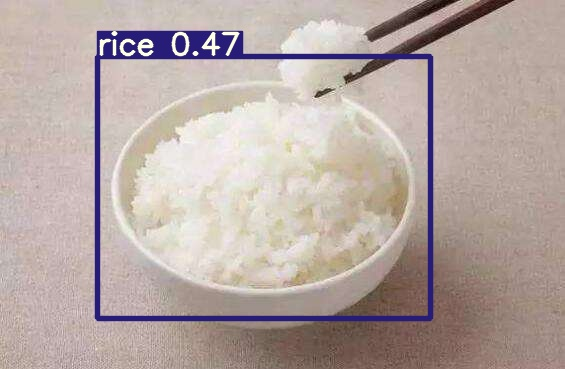
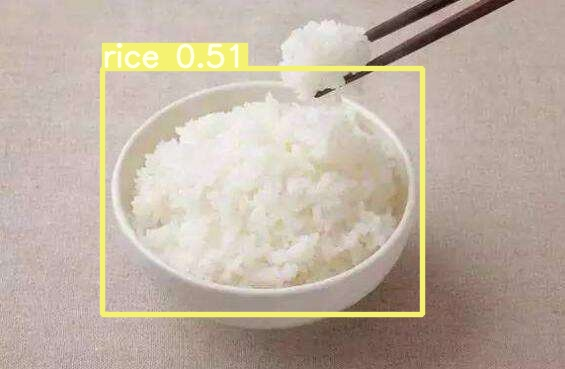
test api call detect()

Changed region(s): [[0.1504, 0.0596, 0.7823, 0.8943]]

diff --git a/pyApp/cv/detect.py b/pyApp/cv/detect.py
@@ -10,21 +10,23 @@ import torch.backends.cudnn as cudnn
 from numpy import random
 
 from models.experimental import attempt_load
-from utils.datasets import LoadStreams, LoadImages
-from utils.general import (
+from cv.utils.datasets import LoadStreams, LoadImages
+from cv.utils.general import (
     check_img_size, non_max_suppression, apply_classifier, scale_coords,
     xyxy2xywh, plot_one_box, strip_optimizer, set_logging)
-from utils.torch_utils import select_device, load_classifier, time_synchronized
+from cv.utils.torch_utils import select_device, load_classifier, time_synchronized
 
 
 def detect(save_img=False):
-    out, source, weights, view_img, save_txt, imgsz = \
-        opt.output, opt.source, opt.weights, opt.view_img, opt.save_txt, opt.img_size
+    out, source, weights, view_img, save_txt, imgsz, device, augment, save_conf, conf_thres, iou_thres, classes, agnostic_nms = \
+        'cv/inference/output', 'cv/inference/images', 'cv/weights/yolov5s.pt', None, \
+        None, 640, 'cpu', 'store_true', 'store_true', 0.25, 0.45, None, 'store_true'
+    # opt.output, opt.source, opt.weights, opt.view_img, opt.save_txt, opt.img_size
     webcam = source.isnumeric() or source.startswith(('rtsp://', 'rtmp://', 'http://')) or source.endswith('.txt')
 
     # Initialize
     set_logging()
-    device = select_device(opt.device)
+    device = select_device(device)
     if os.path.exists(out):
         shutil.rmtree(out)  # delete output folder
     os.makedirs(out)  # make new output folder
@@ -70,10 +72,10 @@ def detect(save_img=False):
 
         # Inference
         t1 = time_synchronized()
-        pred = model(img, augment=opt.augment)[0]
+        pred = model(img, augment=augment)[0]
 
         # Apply NMS
-        pred = non_max_suppression(pred, opt.conf_thres, opt.iou_thres, classes=opt.classes, agnostic=opt.agnostic_nms)
+        pred = non_max_suppression(pred, conf_thres, iou_thres, classes=classes, agnostic=agnostic_nms)
         t2 = time_synchronized()
 
         # Apply Classifier
@@ -104,7 +106,7 @@ def detect(save_img=False):
                 for *xyxy, conf, cls in reversed(det):
                     if save_txt:  # Write to file
                         xywh = (xyxy2xywh(torch.tensor(xyxy).view(1, 4)) / gn).view(-1).tolist()  # normalized xywh
-                        line = (cls, conf, *xywh) if opt.save_conf else (cls, *xywh)  # label format
+                        line = (cls, conf, *xywh) if save_conf else (cls, *xywh)  # label format
                         with open(txt_path + '.txt', 'a') as f:
                             f.write(('%g ' * len(line) + '\n') % line)
 
@@ -146,31 +148,33 @@ def detect(save_img=False):
 
 
 if __name__ == '__main__':
-    parser = argparse.ArgumentParser()
-    # parser.add_argument('--weights', nargs='+', type=str, default='weights/yolov5s.pt', help='model.pt path(s)')
-    parser.add_argument('--weights', nargs='+', type=str, default='weights/yolov5s.pt',
-                        help='model.pt path(s)')
-    parser.add_argument('--source', type=str, default='inference/images',
-                        help='source')  # file/folder, 0 for webcam
-    parser.add_argument('--output', type=str, default='inference/output', help='output folder')  # output folder
-    parser.add_argument('--img-size', type=int, default=640, help='inference size (pixels)')
-    parser.add_argument('--conf-thres', type=float, default=0.25, help='object confidence threshold')
-    parser.add_argument('--iou-thres', type=float, default=0.45, help='IOU threshold for NMS')
-    parser.add_argument('--device', default='cpu', help='cuda device, i.e. 0 or 0,1,2,3 or cpu')
-    parser.add_argument('--view-img', action='store_true', help='display results')
-    parser.add_argument('--save-txt', action='store_true', help='save results to *.txt')
-    parser.add_argument('--save-conf', action='store_true', help='output confidences in --save-txt labels')
-    parser.add_argument('--classes', nargs='+', type=int, help='filter by class: --class 0, or --class 0 2 3')
-    parser.add_argument('--agnostic-nms', action='store_true', help='class-agnostic NMS')
-    parser.add_argument('--augment', action='store_true', help='augmented inference')
-    parser.add_argument('--update', action='store_true', help='update all models')
-    opt = parser.parse_args()
-    print(opt)
-
     with torch.no_grad():
-        if opt.update:  # update all models (to fix SourceChangeWarning)
-            for opt.weights in ['yolov5s.pt', 'yolov5m.pt', 'yolov5l.pt', 'yolov5x.pt']:
-                detect()
-                strip_optimizer(opt.weights)
-        else:
-            detect()
+        detect()
+    # parser = argparse.ArgumentParser()
+    # # parser.add_argument('--weights', nargs='+', type=str, default='weights/yolov5s.pt', help='model.pt path(s)')
+    # parser.add_argument('--weights', nargs='+', type=str, default='weights/yolov5s.pt',
+    #                     help='model.pt path(s)')
+    # parser.add_argument('--source', type=str, default='inference/images',
+    #                     help='source')  # file/folder, 0 for webcam
+    # parser.add_argument('--output', type=str, default='inference/output', help='output folder')  # output folder
+    # parser.add_argument('--img-size', type=int, default=640, help='inference size (pixels)')
+    # parser.add_argument('--conf-thres', type=float, default=0.25, help='object confidence threshold')
+    # parser.add_argument('--iou-thres', type=float, default=0.45, help='IOU threshold for NMS')
+    # parser.add_argument('--device', default='cpu', help='cuda device, i.e. 0 or 0,1,2,3 or cpu')
+    # parser.add_argument('--view-img', action='store_true', help='display results')
+    # parser.add_argument('--save-txt', action='store_true', help='save results to *.txt')
+    # parser.add_argument('--save-conf', action='store_true', help='output confidences in --save-txt labels')
+    # parser.add_argument('--classes', nargs='+', type=int, help='filter by class: --class 0, or --class 0 2 3')
+    # parser.add_argument('--agnostic-nms', action='store_true', help='class-agnostic NMS')
+    # parser.add_argument('--augment', action='store_true', help='augmented inference')
+    # parser.add_argument('--update', action='store_true', help='update all models')
+    # opt = parser.parse_args()
+    # print(opt)
+    #
+    # with torch.no_grad():
+    #     if opt.update:  # update all models (to fix SourceChangeWarning)
+    #         for opt.weights in ['yolov5s.pt', 'yolov5m.pt', 'yolov5l.pt', 'yolov5x.pt']:
+    #             detect()
+    #             strip_optimizer(opt.weights)
+    #     else:
+    #         detect()

diff --git a/pyApp/models/yolo.py b/pyApp/models/yolo.py
@@ -14,8 +14,8 @@ import torch.nn as nn
 
 from models.common import Conv, Bottleneck, SPP, DWConv, Focus, BottleneckCSP, Concat, NMS, autoShape
 from models.experimental import MixConv2d, CrossConv, C3
-from utils.general import check_anchor_order, make_divisible, check_file, set_logging
-from utils.torch_utils import time_synchronized, fuse_conv_and_bn, model_info, scale_img, initialize_weights, \
+from cv.utils.general import check_anchor_order, make_divisible, check_file, set_logging
+from cv.utils.torch_utils import time_synchronized, fuse_conv_and_bn, model_info, scale_img, initialize_weights, \
     select_device, copy_attr
 
 

diff --git a/pyApp/api/user.py b/pyApp/api/user.py
@@ -1,3 +1,5 @@
+import torch
+
 import util.func as func
 
 from flask import Blueprint, request
@@ -6,6 +8,8 @@ from werkzeug.security import generate_password_hash
 
 from db.User import User
 from db.User import getUserByEmail
+
+from cv.detect import detect
 
 user = Blueprint('user', __name__)
 
@@ -202,3 +206,12 @@ def send_security_code():
         u.code_check = 0
         User.add(u)
     return func.reply_json(status)
+
+
+
+@user.route('detect')
+def d():
+    with torch.no_grad():
+        detect()
+
+    return func.reply_json(1)

diff --git a/pyApp/cv/utils/general.py b/pyApp/cv/utils/general.py
@@ -23,8 +23,8 @@ from scipy.cluster.vq import kmeans
 from scipy.signal import butter, filtfilt
 from tqdm import tqdm
 
-from utils.google_utils import gsutil_getsize
-from utils.torch_utils import is_parallel, init_torch_seeds
+from cv.utils.google_utils import gsutil_getsize
+from cv.utils.torch_utils import is_parallel, init_torch_seeds
 
 # Set printoptions
 torch.set_printoptions(linewidth=320, precision=5, profile='long')

diff --git a/pyApp/cv/utils/datasets.py b/pyApp/cv/utils/datasets.py
@@ -14,7 +14,7 @@ from PIL import Image, ExifTags
 from torch.utils.data import Dataset
 from tqdm import tqdm
 
-from utils.general import xyxy2xywh, xywh2xyxy, torch_distributed_zero_first
+from cv.utils.general import xyxy2xywh, xywh2xyxy, torch_distributed_zero_first
 
 help_url = 'https://github.com/ultralytics/yolov5/wiki/Train-Custom-Data'
 img_formats = ['.bmp', '.jpg', '.jpeg', '.png', '.tif', '.tiff', '.dng']

diff --git a/pyApp/models/export.py b/pyApp/models/export.py
@@ -15,8 +15,8 @@ import torch.nn as nn
 
 import models
 from models.experimental import attempt_load
-from utils.activations import Hardswish
-from utils.general import set_logging, check_img_size
+from cv.utils.activations import Hardswish
+from cv.utils.general import set_logging, check_img_size
 
 if __name__ == '__main__':
     parser = argparse.ArgumentParser()

diff --git a/pyApp/models/common.py b/pyApp/models/common.py
@@ -5,8 +5,8 @@ import numpy as np
 import torch
 import torch.nn as nn
 
-from utils.datasets import letterbox
-from utils.general import non_max_suppression, make_divisible, scale_coords
+from cv.utils.datasets import letterbox
+from cv.utils.general import non_max_suppression, make_divisible, scale_coords
 
 
 def autopad(k, p=None):  # kernel, padding

diff --git a/pyApp/models/experimental.py b/pyApp/models/experimental.py
@@ -5,7 +5,7 @@ import torch
 import torch.nn as nn
 
 from models.common import Conv, DWConv
-from utils.google_utils import attempt_download
+from cv.utils.google_utils import attempt_download
 
 
 class CrossConv(nn.Module):
